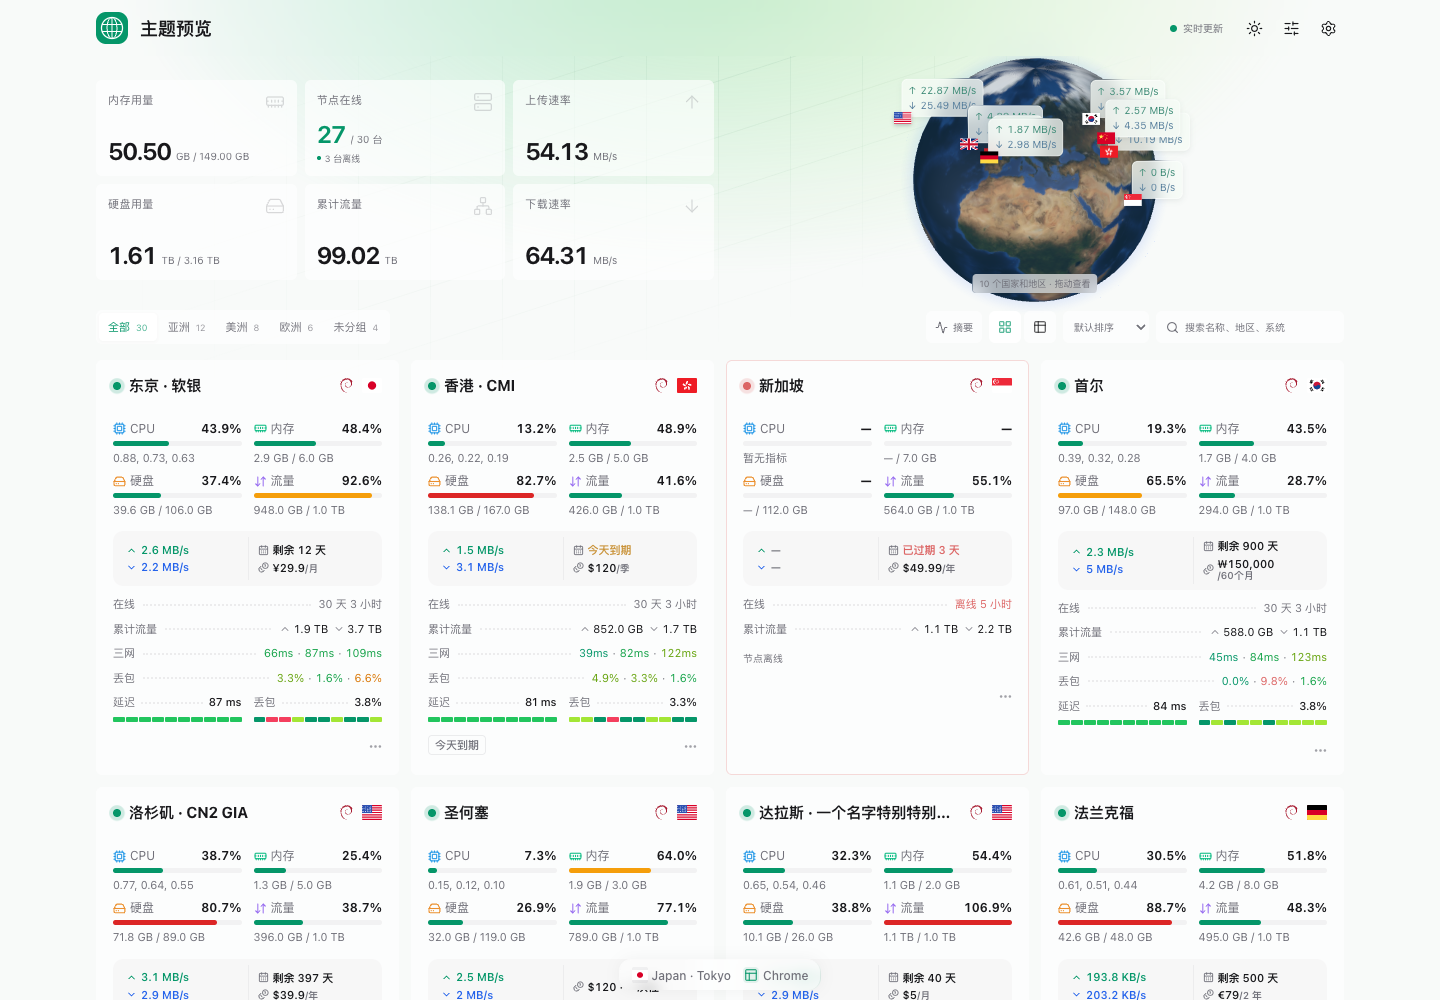
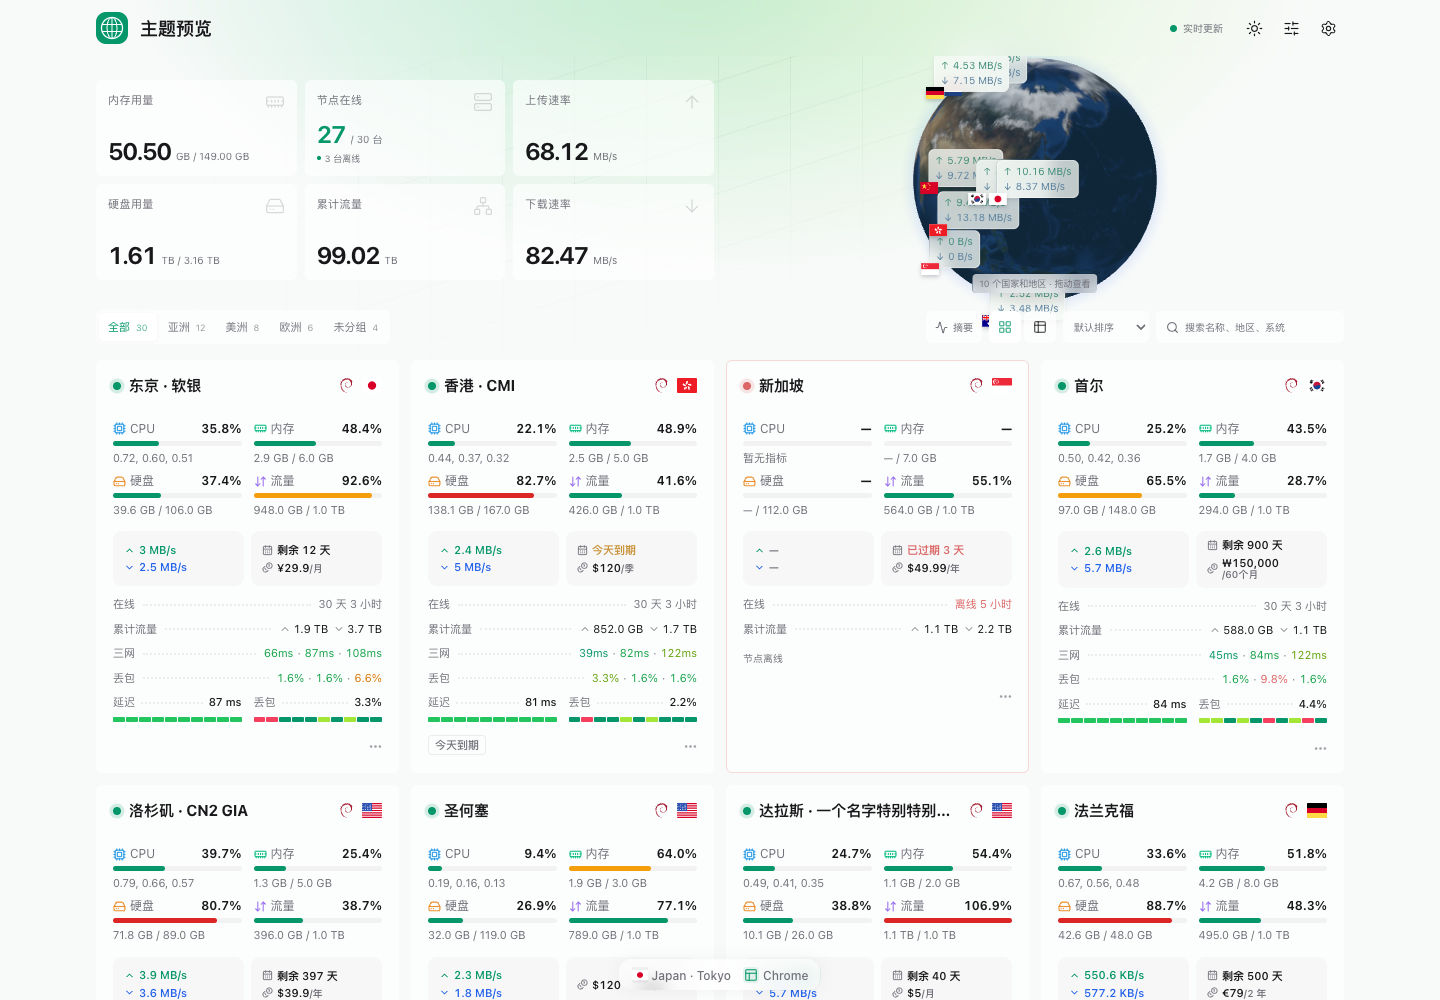
split card highlights into two tiles

diff --git a/src/styles.css b/src/styles.css
@@ -359,9 +359,8 @@ svg { flex-shrink: 0; }
 .node-card .meter-icon-traffic { color: #976cf0; }
 .node-card .meter-label .data-number { font-weight: 650; }
 .node-card .meter-track { height: 5px; }
-.node-highlights { display: grid; grid-template-columns: repeat(var(--highlight-count), minmax(0, 1fr)); margin-bottom: 10px; padding: 6px 4px; border-radius: 10px; background: color-mix(in srgb, var(--subtle) 48%, transparent); }
-.highlight-tile { display: flex; flex-direction: column; justify-content: center; min-width: 0; min-height: 43px; padding: 2px 9px; }
-.highlight-tile + .highlight-tile { border-left: 1px solid color-mix(in srgb, var(--line) 65%, transparent); }
+.node-highlights { display: grid; grid-template-columns: repeat(var(--highlight-count), minmax(0, 1fr)); gap: 7px; margin-bottom: 10px; }
+.highlight-tile { display: flex; flex-direction: column; justify-content: center; min-width: 0; min-height: 55px; padding: 7px 11px; border-radius: 9px; background: color-mix(in srgb, var(--subtle) 48%, transparent); }
 .highlight-value { display: flex; align-items: center; min-width: 0; gap: 4px; overflow: hidden; text-overflow: ellipsis; white-space: nowrap; color: var(--foreground); font-size: 11px; font-weight: 550; line-height: 1.3; font-variant-numeric: tabular-nums; }
 .highlight-value + .highlight-value { margin-top: 3px; }
 .highlight-value svg { width: 11px; height: 11px; flex: none; color: var(--muted); }
